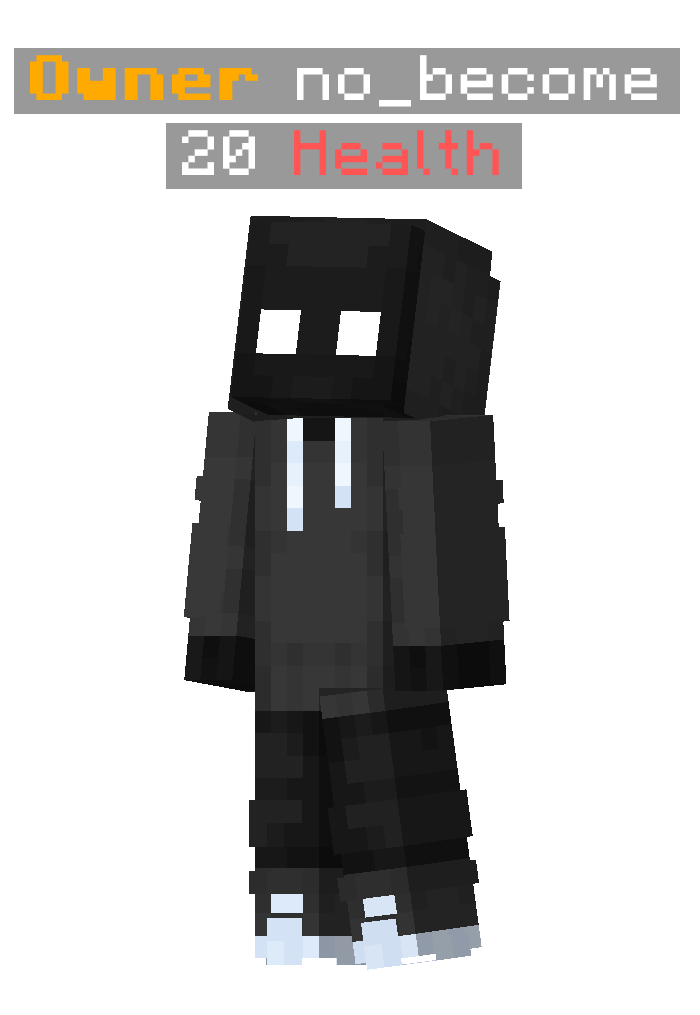
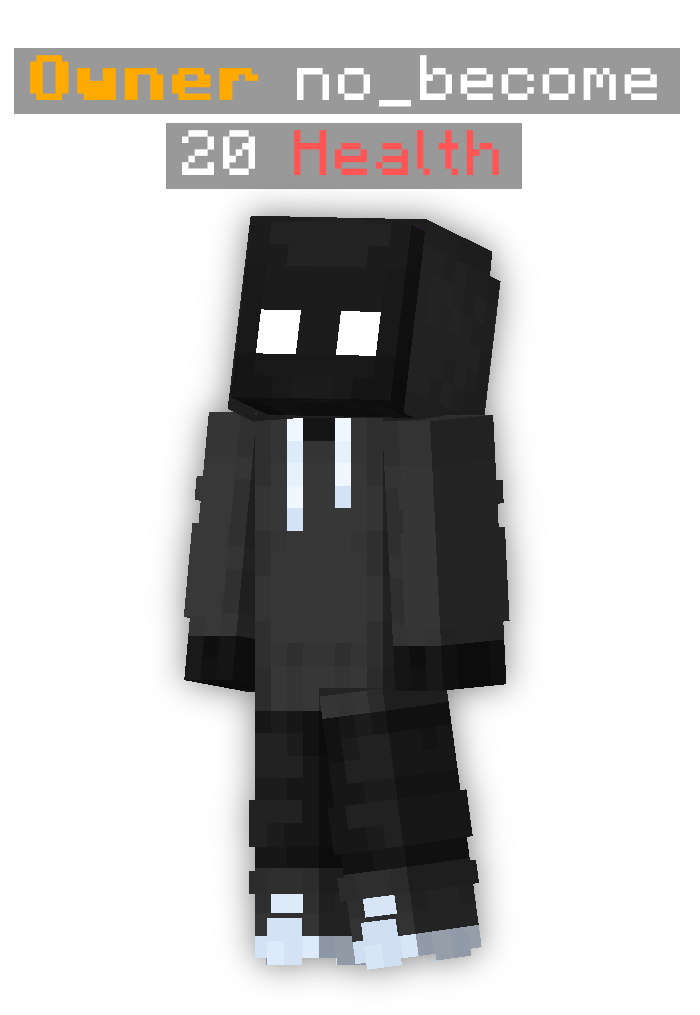
Update docs/lh/index.html
- fixed mobile zoom
- changed image size

Changed region(s): [[0.27, 0.6719, 0.72, 0.9773], [0.36, 0.1833, 0.75, 0.6719], [0.24, 0.2138, 0.36, 0.6719]]

diff --git a/docs/lh/index.html b/docs/lh/index.html
@@ -26,7 +26,12 @@
 
         @media (min-device-width:320px) and (max-device-width:768px) {
             html, body {
-                zoom: 75%;
+                zoom: 100%;
+                font-size: 16px;
+            }
+
+            .title-text {
+                font-size: 35px;
             }
         }
         
@@ -37,7 +42,7 @@
             background-image: url("assets/background.png");
             background-position: top center;
             color: #FFFFFF;
-            font-size: 25px;
+            font-size: 20px;
         }
 
         h1, h2, h3, h4, h5, h6 {
@@ -101,7 +106,7 @@
 
         .title-text {
             font-family: MCBold;
-            font-size: 35px;
+            font-size: 64px;
         }
 
         .bold {
@@ -149,7 +154,7 @@
         </div>
     </header>
     <div class="container">
-        <div class="wrapper" style="width: calc(100vw - 360px); height: fit-content; justify-self: left">
+        <div class="wrapper" style="width: calc(100vw - 285px); height: fit-content; justify-self: left">
             <p class="italic">idk, maybe this will become a real MC server at some point...</p>
             <h3>Info</h3>
             <p style="margin-left: 10px">Game version: <span class="italic" style="color: #00AAAA">1.12.2 with ViaVersion and ViaRewind</span></p>
@@ -189,7 +194,7 @@
 -->
         </div>
         <div class="wrapper" style="width: fit-content; height: fit-content; justify-self: right">
-            <img src="assets/owner_pose.png" align="center" width="250px" />
+            <img src="assets/owner_pose.png" align="center" width="175px" />
             <h3>Contact</h3>
             <ul>
                 <li><a href="https://www.reddit.com/u/rumyantsev">Reddit</a></li>
